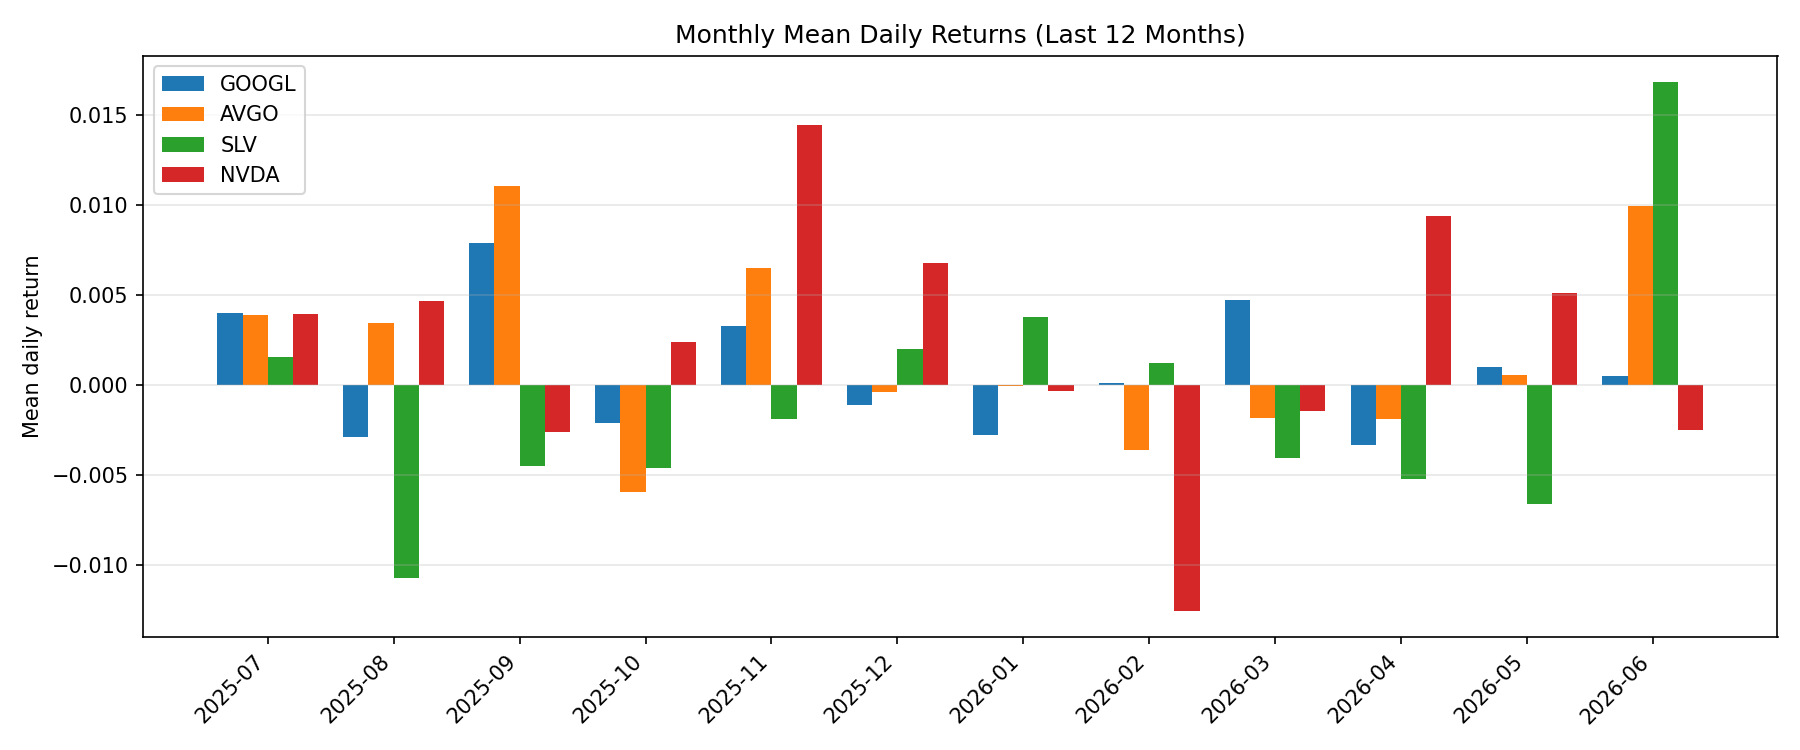
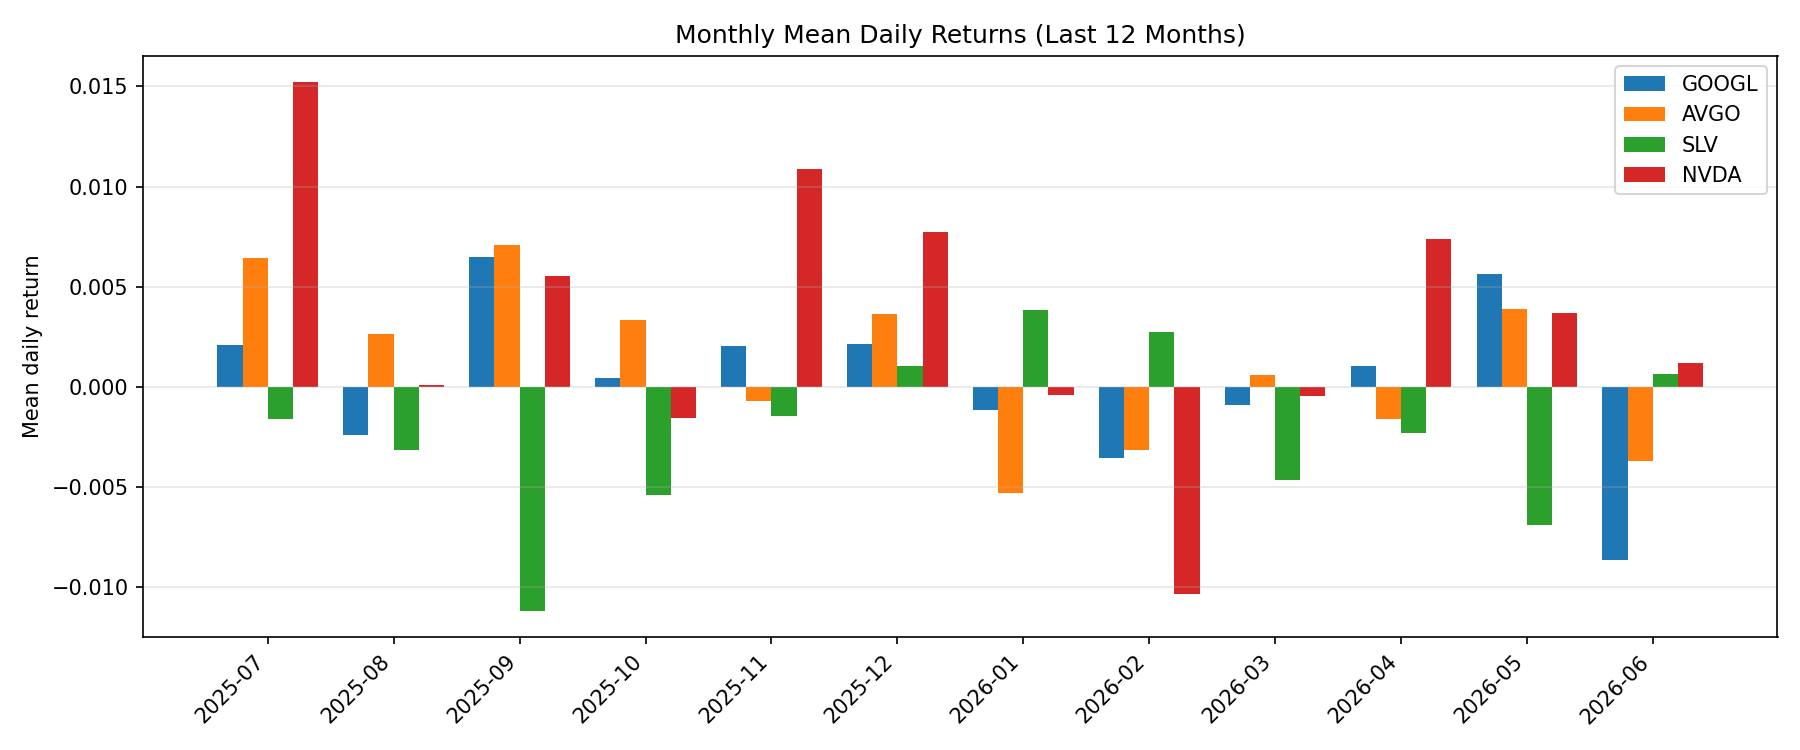
Rewrite README with screenshots, conclusions, and repo link.

diff --git a/README.md b/README.md
@@ -1,6 +1,8 @@
-# Stock Analysis Project（金融数据分析大作业）
+# Financial Analysis Demo
 
-基于 **Python / Pandas / NumPy** 对四只标的近两年日线数据进行分析：
+基于 **Python / Pandas / NumPy** 对四只标的近两年日线收盘价进行采集、清洗与量化分析。
+
+**仓库地址：** [github.com/bobooooo6868/financial-analysis-demo](https://github.com/bobooooo6868/financial-analysis-demo)
 
 | 代码 | 说明 |
 |------|------|
@@ -9,20 +11,60 @@
 | SLV | iShares 白银 ETF |
 | NVDA | 英伟达 |
 
+## 分析结论
+
+基于近两年日收益数据的统计与可视化，主要发现如下：
+
+1. **波动率分化明显** — 科技股中 NVDA、AVGO 的日收益标准差通常高于 GOOGL；SLV 作为商品 ETF，波动特征与科技股不同，需结合 `std` 列对照各标的的风险水平。
+2. **科技股联动性强** — GOOGL、AVGO、NVDA 三只科技股日收益相关系数普遍为正且较高，反映同一板块内的共同市场驱动因素。
+3. **SLV 与科技股低相关** — SLV 与三只科技股的平均相关系数明显更低，体现股票与大宗商品在驱动逻辑上的差异，具有一定分散化价值。
+4. **滚动波动率揭示风险阶段** — 20 日滚动波动率在宏观事件、财报季或行业主题（如 AI）活跃期会出现尖峰；SLV 的尖峰则更多与贵金属价格及宏观预期相关。
+5. **长期收益轨迹差异** — 累计对数收益曲线直观展示各标的在样本期内的相对表现，NVDA 在 AI 周期中往往累计收益领先，但伴随更高波动。
+
+> 完整交互式报告见 [`notebooks/main.ipynb`](notebooks/main.ipynb)。图表由 `python main.py` 生成并保存至 `images/`。
+
+## 可视化结果
+
+### 累计对数收益
+
+展示各标的从样本起始日至当前的累计对数收益轨迹，便于比较长期收益趋势。
+
+![累计对数收益曲线](images/cumulative_log_returns.png)
+
+### 日收益相关矩阵
+
+颜色越绿表示正相关越强，越红表示负相关越强。用于判断科技股之间的联动程度及 SLV 与科技股的差异。
+
+![日收益相关矩阵热图](images/correlation_heatmap.png)
+
+### 20 日滚动波动率
+
+反映短期风险水平随时间的变化，尖峰通常对应市场剧烈波动或重大事件阶段。
+
+![20 日滚动波动率](images/rolling_volatility.png)
+
+### 最近 12 个月月均日收益
+
+按月比较各标的平均日收益，便于观察阶段性相对强弱。
+
+![最近 12 个月月均日收益](images/monthly_returns_bar.png)
+
 ## 项目结构
 
 ```
-financial-analysis/
+financial-analysis-demo/
 ├── data/
 │   ├── raw/              # 各标的原始 CSV（运行后生成）
 │   └── processed/        # 清洗后的收盘价宽表 prices_wide.csv
 ├── notebooks/
-│   └── main.ipynb        # 主分析报告（作业提交用）
+│   ├── main.ipynb        # 主分析报告（作业提交用）
+│   └── 01_stock_overview.ipynb
 ├── src/
 │   ├── data_fetch.py     # 数据采集与清洗
 │   ├── analysis.py       # 收益、滚动、相关性、重采样
 │   ├── utils.py          # NumPy 统计工具函数
 │   ├── plotting.py       # 图表生成
+│   ├── demo_data.py      # 合成演示数据（限流备用）
 │   └── config.py         # 常量配置
 ├── images/               # 导出的图表 PNG
 ├── main.py               # 一键运行全流程
@@ -30,46 +72,69 @@ financial-analysis/
 └── README.md
 ```
 
-## 环境准备
+## 快速开始
+
+### 1. 克隆仓库
+
+```bash
+git clone https://github.com/bobooooo6868/financial-analysis-demo.git
+cd financial-analysis-demo
+```
+
+### 2. 创建虚拟环境并安装依赖
+
+**Windows (PowerShell)**
 
 ```powershell
-cd C:\Users\ltz\Projects\financial-analysis
 py -3.13 -m venv .venv
 .\.venv\Scripts\Activate.ps1
-pip install -r requirements.txt -i https://pypi.tuna.tsinghua.edu.cn/simple --trusted-host pypi.tuna.tsinghua.edu.cn
+pip install -r requirements.txt
 python -m ipykernel install --user --name financial-analysis --display-name "Python (financial-analysis)"
 ```
 
-## 运行方式
+**macOS / Linux**
 
-**方式一：命令行一键运行（下载数据 + 分析 + 出图）**
+```bash
+python3 -m venv .venv
+source .venv/bin/activate
+pip install -r requirements.txt
+python -m ipykernel install --user --name financial-analysis --display-name "Python (financial-analysis)"
+```
 
-```powershell
-.\.venv\Scripts\Activate.ps1
+国内用户可在 pip 命令后追加镜像参数，例如：
+
+```bash
+pip install -r requirements.txt -i https://pypi.tuna.tsinghua.edu.cn/simple --trusted-host pypi.tuna.tsinghua.edu.cn
+```
+
+### 3. 运行分析
+
+**命令行一键运行（下载数据 + 分析 + 出图）**
+
+```bash
 python main.py
 ```
 
-若出现 **yfinance 限流**（`Too Many Requests`），可先用演示数据跑通流程：
+若 **yfinance 限流**（`Too Many Requests`），可先用演示数据跑通流程：
 
-```powershell
+```bash
 python main.py --demo
 ```
 
 稍后再去掉 `--demo` 重新下载真实行情。
 
-**方式二：Jupyter Notebook（含 Markdown 结论）**
+**Jupyter Notebook（含 Markdown 结论）**
 
-```powershell
-code notebooks/main.ipynb
-# 或
-python -m jupyter lab notebooks/main.ipynb
+```bash
+jupyter lab notebooks/main.ipynb
+# 或在 VS Code 中打开 notebooks/main.ipynb
 ```
 
-在 VS Code 中选择内核 **Python (financial-analysis)**，从上到下运行所有单元格。
+选择内核 **Python (financial-analysis)**，从上到下运行所有单元格。
 
-**仅重新下载数据：**
+**仅重新下载数据**
 
-```powershell
+```bash
 python -m src.data_fetch
 ```
 
@@ -82,13 +147,22 @@ python -m src.data_fetch
 | 3 | 滚动均线/波动率、`corr`、`groupby`、`resample` | `src/analysis.py` |
 | 4 | Notebook 报告 + 图表 + GitHub | `notebooks/main.ipynb`, `images/` |
 
-## 推送到 GitHub
+## 技术栈
 
-```powershell
-gh auth login
-gh repo create financial-analysis --private --source=. --remote=origin --push
+`yfinance` · `pandas` · `numpy` · `matplotlib` · `seaborn` · `jupyter`
+
+完整依赖见 [`requirements.txt`](requirements.txt)。
+
+## 数据来源与说明
+
+- 行情数据通过 [yfinance](https://github.com/ranaroussi/yfinance) 获取，存在延迟，仅供学习与研究使用。
+- 原始 CSV 默认不纳入版本控制，运行后本地生成；图表 PNG 提交至仓库便于 GitHub 展示。
+- 使用 `--demo` 时生成合成数据，统计结果与真实市场不同，仅用于验证流程。
+
+## 更新仓库
+
+```bash
+git add .
+git commit -m "描述你的修改"
+git push origin master
 ```
-
-## 依赖
-
-见 [requirements.txt](requirements.txt)。核心：`yfinance`, `pandas`, `numpy`, `matplotlib`, `seaborn`, `jupyter`。